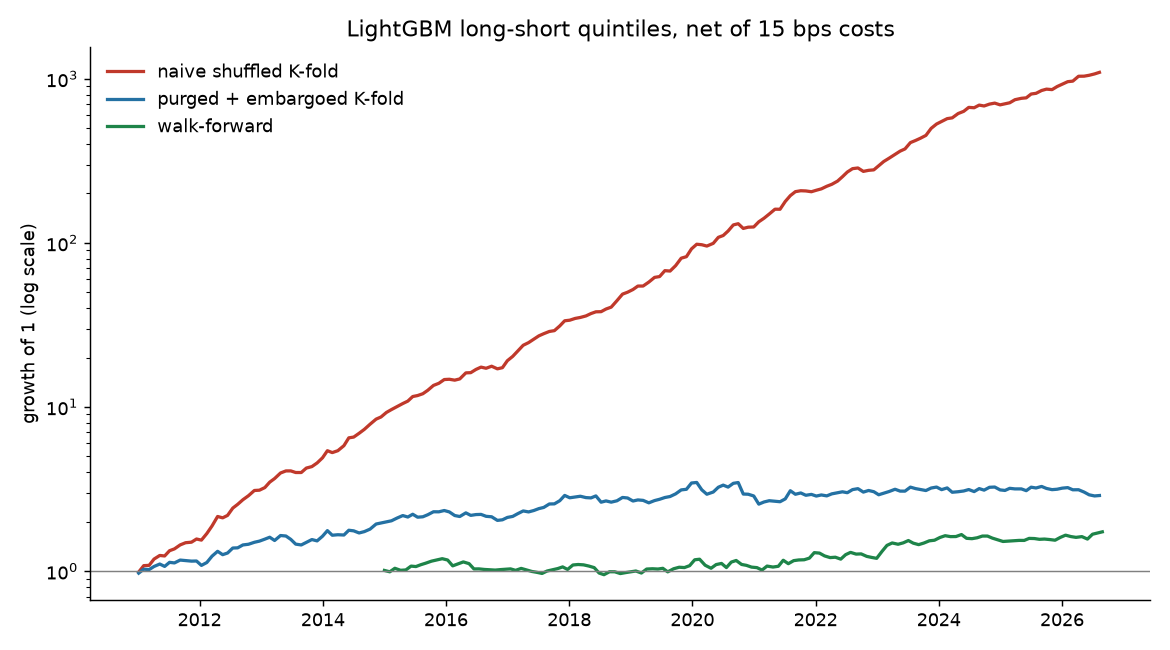
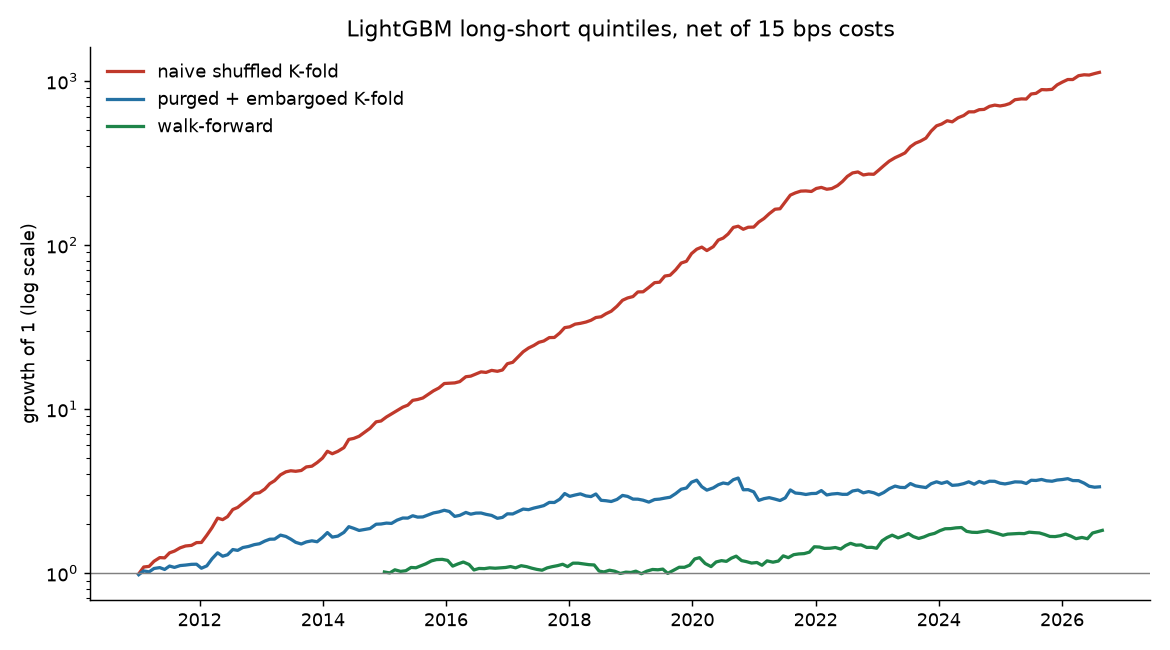
Update results from experiment run 38274480361

diff --git a/results/summary.md b/results/summary.md
@@ -1,8 +1,8 @@
 | validation   | model    |   mean_ic |   ic_tstat |   long_short_gross_sharpe |   long_short_net_sharpe |   long_short_net_ann_return |   long_short_max_dd |   long_short_turnover |   long_only_net_sharpe |   equal_weight_sharpe |
 |:-------------|:---------|----------:|-----------:|--------------------------:|------------------------:|----------------------------:|--------------------:|----------------------:|-----------------------:|----------------------:|
-| naive_kfold  | ridge    |     0.069 |      5.856 |                     1.504 |                   1.308 |                       0.183 |              -0.192 |                 1.477 |                  1.504 |                 1.061 |
-| naive_kfold  | lightgbm |     0.171 |     16.739 |                     4.143 |                   3.835 |                       0.578 |              -0.064 |                 2.120 |                  2.130 |                 1.061 |
-| purged_kfold | ridge    |     0.047 |      3.977 |                     1.117 |                   0.911 |                       0.121 |              -0.190 |                 1.553 |                  1.392 |                 1.061 |
-| purged_kfold | lightgbm |     0.041 |      3.709 |                     0.870 |                   0.588 |                       0.072 |              -0.262 |                 2.084 |                  1.345 |                 1.061 |
-| walk_forward | ridge    |     0.048 |      3.709 |                     1.304 |                   1.085 |                       0.149 |              -0.227 |                 1.681 |                  1.458 |                 1.081 |
-| walk_forward | lightgbm |     0.031 |      2.804 |                     0.786 |                   0.464 |                       0.049 |              -0.201 |                 2.124 |                  1.266 |                 1.081 |
+| naive_kfold  | ridge    |     0.069 |      5.857 |                     1.511 |                   1.312 |                       0.183 |              -0.185 |                 1.485 |                  1.509 |                 1.062 |
+| naive_kfold  | lightgbm |     0.171 |     16.614 |                     4.272 |                   3.949 |                       0.581 |              -0.048 |                 2.138 |                  2.168 |                 1.062 |
+| purged_kfold | ridge    |     0.047 |      3.969 |                     1.098 |                   0.892 |                       0.119 |              -0.198 |                 1.557 |                  1.389 |                 1.062 |
+| purged_kfold | lightgbm |     0.041 |      3.743 |                     0.959 |                   0.671 |                       0.082 |              -0.271 |                 2.083 |                  1.382 |                 1.062 |
+| walk_forward | ridge    |     0.048 |      3.709 |                     1.293 |                   1.074 |                       0.147 |              -0.227 |                 1.684 |                  1.458 |                 1.083 |
+| walk_forward | lightgbm |     0.030 |      2.772 |                     0.847 |                   0.515 |                       0.054 |              -0.182 |                 2.124 |                  1.240 |                 1.083 |

diff --git a/results/ic_by_year.md b/results/ic_by_year.md
@@ -1,14 +1,14 @@
 |   year |   mean_ic |   rebalances |   long_short_net_return |
 |-------:|----------:|-------------:|------------------------:|
-|   2015 |     0.113 |           12 |                   0.190 |
-|   2016 |    -0.031 |           12 |                  -0.138 |
-|   2017 |     0.017 |           12 |                  -0.003 |
-|   2018 |     0.047 |           11 |                  -0.043 |
-|   2019 |     0.052 |           12 |                   0.102 |
-|   2020 |     0.003 |           12 |                  -0.020 |
-|   2021 |     0.073 |           12 |                   0.225 |
-|   2022 |    -0.005 |           12 |                  -0.077 |
-|   2023 |     0.086 |           11 |                   0.290 |
-|   2024 |    -0.017 |           12 |                   0.005 |
-|   2025 |     0.007 |           11 |                   0.035 |
-|   2026 |     0.033 |            8 |                   0.081 |
+|   2015 |     0.104 |           12 |                   0.211 |
+|   2016 |    -0.030 |           12 |                  -0.108 |
+|   2017 |     0.018 |           12 |                   0.012 |
+|   2018 |     0.045 |           11 |                  -0.074 |
+|   2019 |     0.055 |           12 |                   0.103 |
+|   2020 |     0.008 |           12 |                   0.030 |
+|   2021 |     0.064 |           12 |                   0.257 |
+|   2022 |    -0.007 |           12 |                  -0.020 |
+|   2023 |     0.091 |           11 |                   0.232 |
+|   2024 |    -0.016 |           12 |                  -0.004 |
+|   2025 |    -0.003 |           11 |                  -0.029 |
+|   2026 |     0.037 |            8 |                   0.078 |

diff --git a/results/data_report.md b/results/data_report.md
@@ -45,10 +45,10 @@ equally big `ret` on a known split/bonus date means Yahoo failed to adjust.
 | CANBK      | 2017-10-25 |  87.980 |      74.463 |  0.387 |     0.387 | kept, real: government's public-sector bank recapitalisation plan                |
 | INDUSINDBK | 2020-03-26 | 435.900 |     420.270 |  0.447 |     0.447 | kept, real: rebound after the COVID crash                                        |
 | PNB        | 2017-10-25 | 202.050 |     182.175 |  0.462 |     0.462 | kept, real: government's public-sector bank recapitalisation plan                |
-| TATAMOTORS | 2025-10-14 | 395.450 |     392.197 | -0.402 |    -0.402 | NOT REVIEWED                                                                     |
+| TATAMOTORS | 2025-10-14 | 395.450 |     392.197 | -0.402 |    -0.402 | fixed: demerger of the commercial-vehicle business (2025)                        |
 | VEDL       | 2026-04-30 | 271.550 |     271.550 | -0.649 |    -0.649 | fixed: demerger of Vedanta's businesses (inferred from the -65% unadjusted drop) |
 
-Unreviewed jumps: 1
+Unreviewed jumps: 0
 
 ## Survivorship check
 

diff --git a/results/cost_sensitivity.md b/results/cost_sensitivity.md
@@ -1,5 +1,5 @@
 |   cost_bps |   long_short_net_sharpe |   long_short_net_ann_return |   long_only_net_sharpe |   long_only_net_ann_return |
 |-----------:|------------------------:|----------------------------:|-----------------------:|---------------------------:|
-|      0.000 |                   0.786 |                       0.090 |                  1.357 |                      0.283 |
-|     15.000 |                   0.464 |                       0.049 |                  1.266 |                      0.260 |
-|     30.000 |                   0.143 |                       0.010 |                  1.175 |                      0.238 |
+|      0.000 |                   0.847 |                       0.095 |                  1.329 |                      0.284 |
+|     15.000 |                   0.515 |                       0.054 |                  1.240 |                      0.261 |
+|     30.000 |                   0.182 |                       0.014 |                  1.151 |                      0.238 |

diff --git a/results/feature_importance.md b/results/feature_importance.md
@@ -1,17 +1,17 @@
 |                |   gain_share |
 |:---------------|-------------:|
-| log_dollar_vol |        0.188 |
-| mom_12_1       |        0.112 |
-| vol_63d        |        0.109 |
+| log_dollar_vol |        0.189 |
+| mom_12_1       |        0.111 |
+| vol_63d        |        0.111 |
 | dist_52w_high  |        0.079 |
 | mom_126d       |        0.071 |
 | ma_200_ratio   |        0.065 |
-| hl_range_21d   |        0.064 |
+| hl_range_21d   |        0.063 |
 | mom_63d        |        0.056 |
-| vol_ratio      |        0.054 |
+| vol_ratio      |        0.055 |
 | vol_21d        |        0.050 |
-| ma_50_ratio    |        0.047 |
+| ma_50_ratio    |        0.046 |
 | ret_21d        |        0.035 |
-| volume_surge   |        0.032 |
+| volume_surge   |        0.033 |
 | rev_5d         |        0.018 |
 | rsi_14         |        0.018 |
